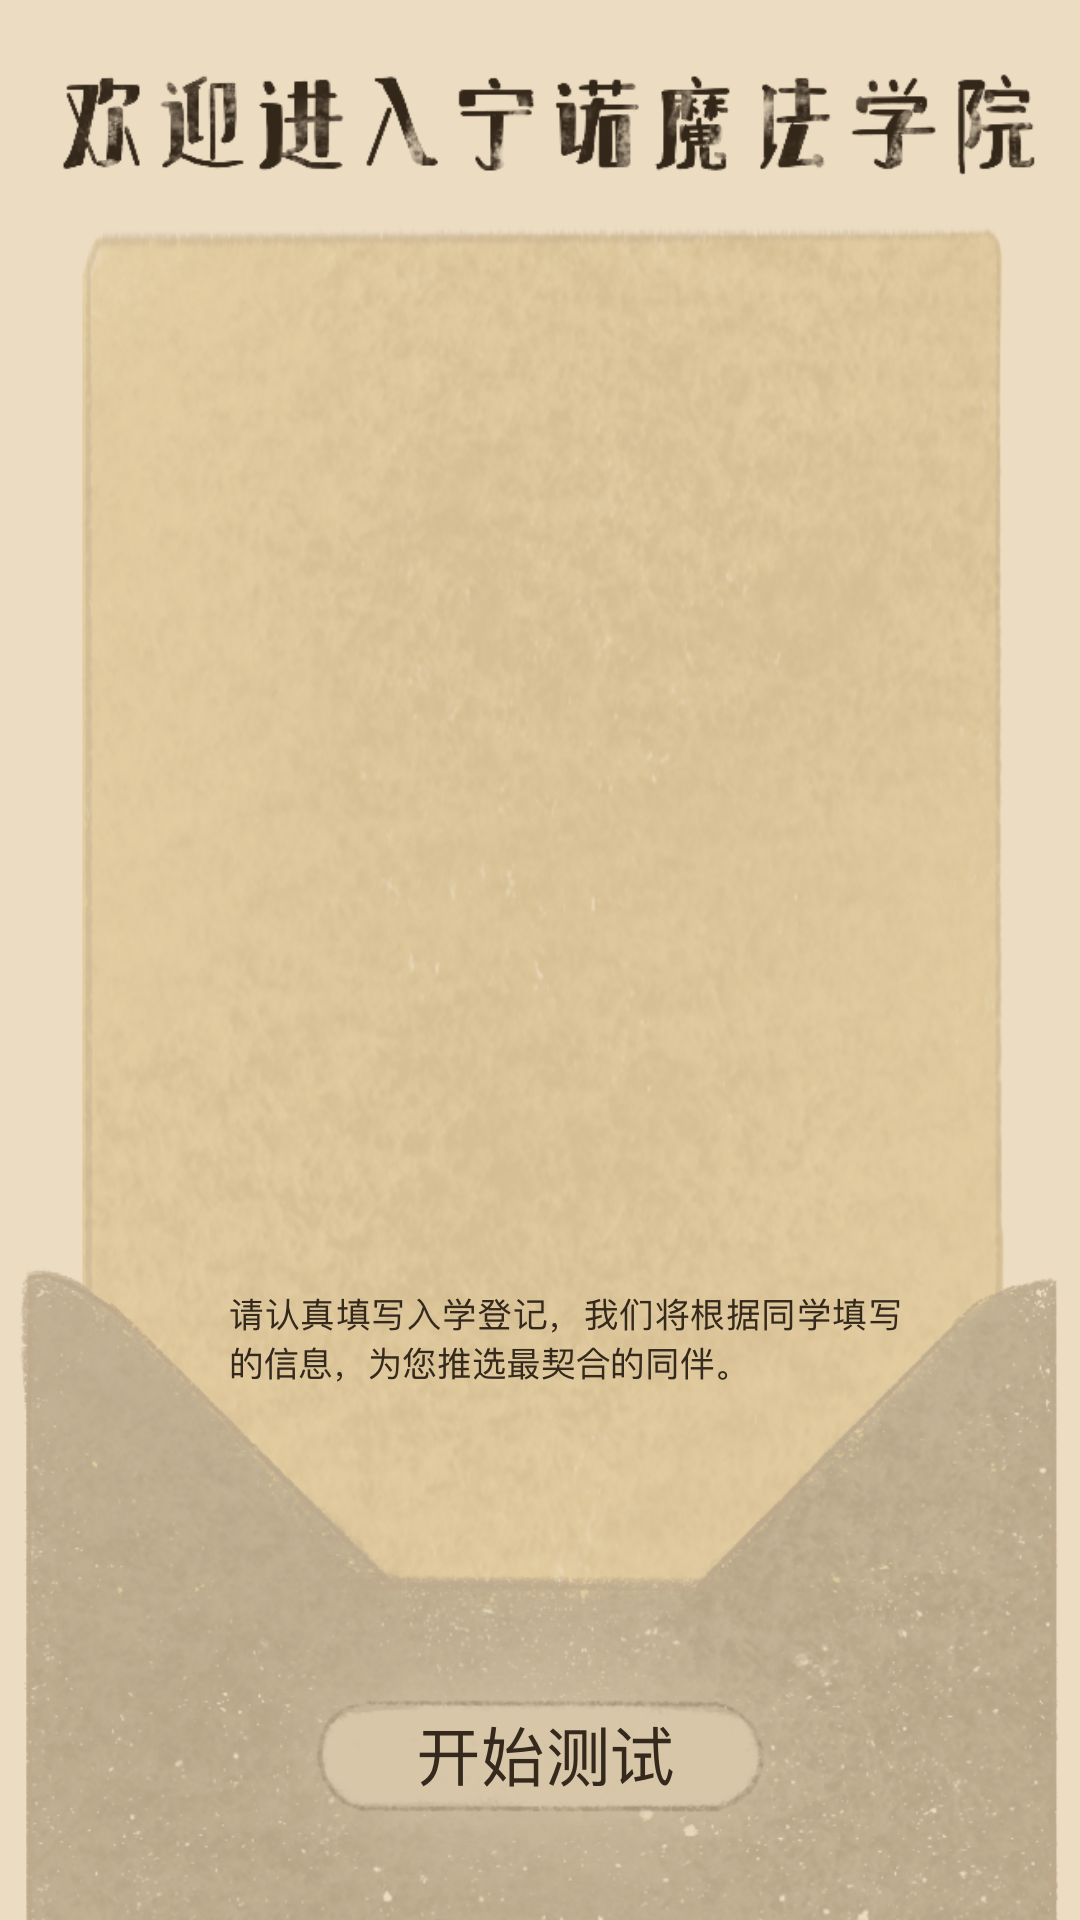
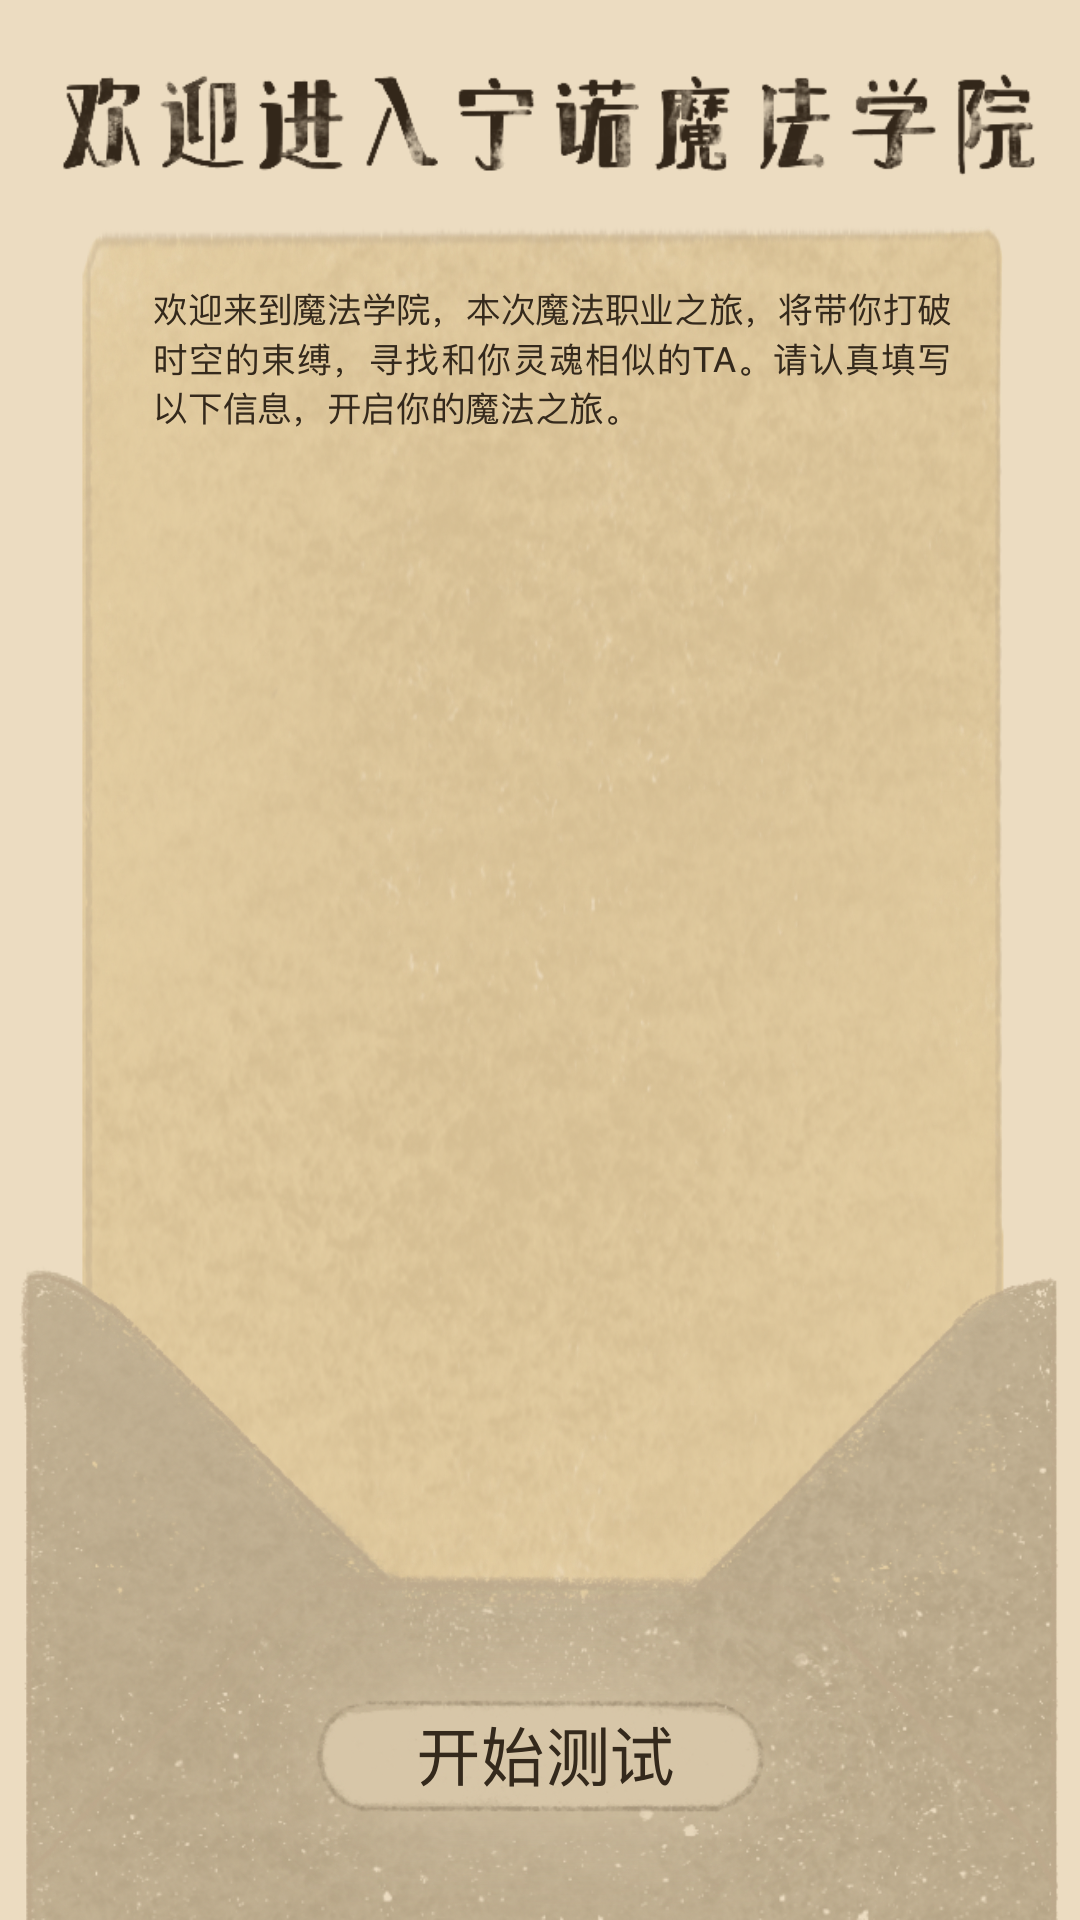
题目单选，先验

Changed region(s): [[0.1222, 0.1562, 0.8861, 0.2188], [0.2139, 0.6562, 0.825, 0.7188]]

diff --git a/src/views/slideCard.vue b/src/views/slideCard.vue
@@ -12,8 +12,8 @@
     <div class="card-wrapper">
       <div
         class="card-item"
-        v-for="(item, index) in cardArrs"
-        :key="index"
+        v-for="(item, cindex) in cardArrs"
+        :key="cindex"
         :style="[
           { zIndex: item.zIndex },
           {
@@ -30,7 +30,7 @@
             { backgroundSize: '100% 100%' },
           ]"
         >
-          <div v-for="(i, index) in item.components" :key="index">
+          <div v-for="(i, comindex) in item.components" :key="comindex">
             <div
               :style="[
                 { background: `url(${i.img}) no-repeat` },
@@ -46,6 +46,7 @@
               <Question
                 v-if="!item.noQ && show"
                 v-bind="item"
+                v-bind:itemIndex="cindex"
                 @nextPage="nextPage"
               ></Question>
             </div>
@@ -58,7 +59,8 @@
 <script>
 import Userinfo from "./userinfo.vue";
 import Question from "./question.vue";
-import { mapState } from "vuex";
+import { Toast } from "vant";
+import { mapState, mapMutations, mapGetters } from "vuex";
 export default {
   components: {
     Userinfo,
@@ -66,14 +68,15 @@ export default {
   },
   computed: {
     ...mapState(["cardArrs"]),
+    ...mapGetters(["getCurrentChoiceByIndex"]),
   },
   data() {
     return {
       show: false,
       storys: {
-        s1: "校园奇妙⽇： 翌⽇，醒来后，你 发现宁诺的校园 ⾥，充斥着不寻常 的⽓氛…… 宁诺居然变成了魔 法学校？",
+        s1: "校园奇妙⽇</br></br></br>翌日，你从睡梦中醒来</br></br>你发现宁诺的校园里</br></br>充斥着不寻常的⽓氛</br></br>宁诺居然变成了</br></br>魔法学院",
         s3: "⾛过诺丁桥",
-        end: "正在分析你的校园 魔法⼈格…… xx（昵称）的魔法 职业为xxx 这样的职业仅占宁 诺的 xx%",
+        end: "正在分析你的校园魔法⼈格…… xxxx的魔法职业为xxx 这样的职业仅占宁诺的xx%",
       },
       isStart: false,
       isClick: true,
@@ -94,7 +97,6 @@ export default {
       }
     },
     nextPage() {
-      console.log(111);
       this.slideUp();
     },
     // 滑动开始
@@ -337,6 +339,13 @@ export default {
         this.currentIndex = this.cardArrs?.length - 1;
       }
       console.log("currentIndex---", this.currentIndex);
+      if (!this.cardArrs[this.currentIndex - 1].noQ && !this.getCurrentChoiceByIndex(this.currentIndex - 1)) {
+        Toast.clear();
+        Toast({
+          message: "请先回答这道题~",
+        });
+        this.slideDown();
+      }
     },
     // 向下滑动切换
     slideDown() {
@@ -561,11 +570,12 @@ export default {
   left: 25%;
   animation: flipInY 5s infinite;
 }
-.fade-enter-active, .fade-leave-active {
-    transition: opacity 2s
+.fade-enter-active,
+.fade-leave-active {
+  transition: opacity 2s;
 }
 .fade-enter, .fade-leave-to /* .fade-leave-active, 2.1.8 版本以下 */ {
-    opacity: 0
+  opacity: 0;
 }
 .card-item {
   position: absolute;

diff --git a/src/components/selectCard.vue b/src/components/selectCard.vue
@@ -1,95 +1,40 @@
 <template>
-  <div class="selectCard" @click.stop="next">
-   {{value}}: {{context}}
-  </div>
+  <div class="selectCard" @click.stop="next">{{ value }}: {{ context }}</div>
 </template>
 <script>
 export default {
   name: "selectCard",
-  props:{
-      value:String,
-      context:String,
-      active:String
+  props: {
+    value: String,
+    context: String,
+    active: String,
   },
-  methods:{
+  methods: {
     next() {
-      console.log('next')
-      this.$emit('nextPage')
-    }
-  }
+      console.log("next");
+      this.$emit("nextPage");
+    },
+  },
 };
 </script>
 <style lang="scss">
-.selectCard{
-  color:#583E49;
+.selectCard {
+  color: #583e49;
   font-size: 12px;
   padding: 5px 8px;
   border-radius: 50px;
-  border:1px solid #523745;
-  background: #FBE996;
-  box-shadow: 2px 5px 5px #888888;;
-  margin:10px;
+  border: 1px solid #523745;
+  background: #fbe996;
+  box-shadow: 2px 5px 5px #888888;
+  margin: 10px;
   text-align: left;
-  // background: url('../assets/img/qselect3.png') no-repeat;
-//   background-size: 100% 100%;
   p {
-    font-family: 'Audiowide';
+    font-family: "Audiowide";
     text-align: center;
     color: #00a67c;
     font-size: 16px;
     -webkit-transition: all 1s ease;
-            transition: all 1s ease;
+    transition: all 1s ease;
+  }
 }
-// p:hover {
-//     color: #fff;
-//     -webkit-animation: Glow 1s ease infinite alternate;
-//             animation: Glow 1s ease infinite alternate;
-
-// }
-// @-webkit-keyframes Glow {
-//     from {
-//         text-shadow: 0 0 10px #fff,
-//                      0 0 20px #fff,
-//                      0 0 30px #fff,
-//                      0 0 40px #00a67c,
-//                      0 0 70px #00a67c,
-//                      0 0 80px #00a67c,
-//                      0 0 100px #00a67c,
-//                      0 0 150px #00a67c;
-//     }
-//     to {
-//         text-shadow: 0 0 5px #fff,
-//                      0 0 10px #fff,
-//                      0 0 15px #fff,
-//                      0 0 20px #00a67c,
-//                      0 0 35px #00a67c,
-//                      0 0 40px #00a67c,
-//                      0 0 50px #00a67c,
-//                      0 0 75px #00a67c;
-//     }
-// }
-// @keyframes Glow {
-//     from {
-//         text-shadow: 0 0 10px #fff,
-//                      0 0 20px #fff,
-//                      0 0 30px #fff,
-//                      0 0 40px #00a67c,
-//                      0 0 70px #00a67c,
-//                      0 0 80px #00a67c,
-//                      0 0 100px #00a67c,
-//                      0 0 150px #00a67c;
-//     }
-//     to {
-//         text-shadow: 0 0 5px #fff,
-//                      0 0 10px #fff,
-//                      0 0 15px #fff,
-//                      0 0 20px #00a67c,
-//                      0 0 35px #00a67c,
-//                      0 0 40px #00a67c,
-//                      0 0 50px #00a67c,
-//                      0 0 75px #00a67c;
-//     }
-// }
-}
-
 </style>

diff --git a/src/views/question.vue b/src/views/question.vue
@@ -7,12 +7,10 @@
         <selectCard
           :context="v.label"
           :value="v.title"
-          :class="{ active: getCurrentChoiceByIndex(index) == v.value }"
-          @nextPage="nextPage(index, v.value)"
+          :class="{ active: getCurrentChoiceByIndex(itemIndex) == v.value }"
+          @nextPage="nextPage(itemIndex, v.value)"
         ></selectCard>
       </div>
-      <!-- <selectCard :context="leftChoice" @nextPage="nextPage"></selectCard>
-      <selectCard :context="rightChoice" @nextPage="nextPage"></selectCard> -->
     </div>
   </div>
 </template>
@@ -20,7 +18,7 @@
 import selectCard from "../components/selectCard.vue";
 import { mapMutations, mapGetters } from "vuex";
 export default {
-  name: "Index",
+  name: "Question",
   components: {
     selectCard,
   },
@@ -28,7 +26,6 @@ export default {
     ...mapGetters(["getCurrentChoiceByIndex"]),
   },
   mounted() {
-    console.log(this.getCurrentChoiceByIndex(1));
   },
   methods: {
     nextPage(index, choice) {
@@ -41,8 +38,7 @@ export default {
     title: String,
     context: String,
     Choices: Array,
-    leftChoice: String,
-    rightChoice: String,
+    itemIndex: Number
   },
 };
 </script>

diff --git a/src/components/FullscreenLoading/loading.vue b/src/components/FullscreenLoading/loading.vue
@@ -1,9 +1,8 @@
 <template>
   <transition name = "fade">
     <div class="preloader" v-if="showLoading">
-      <div class="preloader-progress" @click="close()">
+      <div class="preloader-progress" v-html="story" @click="close()">
         <!-- <div class="preloader-progress-bar" :style="{ width: loadPercent + '%' }"> -->
-        {{ story }}
         <!-- </div> -->
       </div>
     </div>
@@ -96,6 +95,7 @@ export default {
   height: 100%;
   overflow: hidden;
   background-color: rgb(23, 24, 24);
+  text-align:center;
 
   /* background-image: linear-gradient(90deg,#52b6ec 10%,#19a9d5 90%); */
   z-index: 9999;
@@ -108,8 +108,8 @@ export default {
   bottom: 0;
   right: 0;
   position: absolute;
-  width: 300px;
-  height: 120px;
+  width: 90vw;
+  height: 60vh;
   /* opacity: 0.2; */
   color: white;
   font-family: "Franklin Gothic Medium", "Arial Narrow", Arial, sans-serif;

diff --git a/src/store/index.js b/src/store/index.js
@@ -255,7 +255,6 @@ export default new Vuex.Store({
       console.log(data)
       const { index, choice } = data
       const obj = { ...state.cardArrs[index], currentChoice: choice }
-      console.log(obj, '3444', state.cardArrs)
       state.cardArrs.splice(index, 1, obj)
     }
   },

diff --git a/src/views/userinfo.vue b/src/views/userinfo.vue
@@ -117,7 +117,7 @@ export default {
 <style lang="scss">
 .form {
   display: inline-block;
-  margin-top: 120px;
+  margin-top: 26vh;
 }
 .form-group {
   font-size: 0.4rem;
